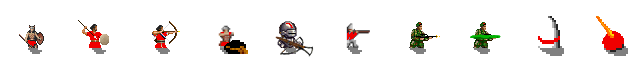
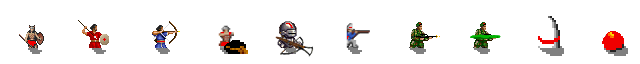
Improvements to defender graphics - make the player colour more subtle.

diff --git a/readme.html b/readme.html
@@ -532,7 +532,8 @@ UPDATED Now using SDL 2 for Android instead of Qt: no longer requires Ministro
         app; now properly scales to fullscreen (and takes full advantage of
         devices with FullHD displays or higher); now supports using device's
         volume keys to change volume.
-UPDATED Improved graphics: unarmed man and caveman.
+UPDATED Improved graphics: unarmed man, caveman, and minor changes to some of
+        the defenders.
 UPDATED Faster startup time.
 UPDATED Options (sound/music and one mouse button mode) now saved.
 UPDATED Message displayed when game paused; mouse pointer no longer frozen when
